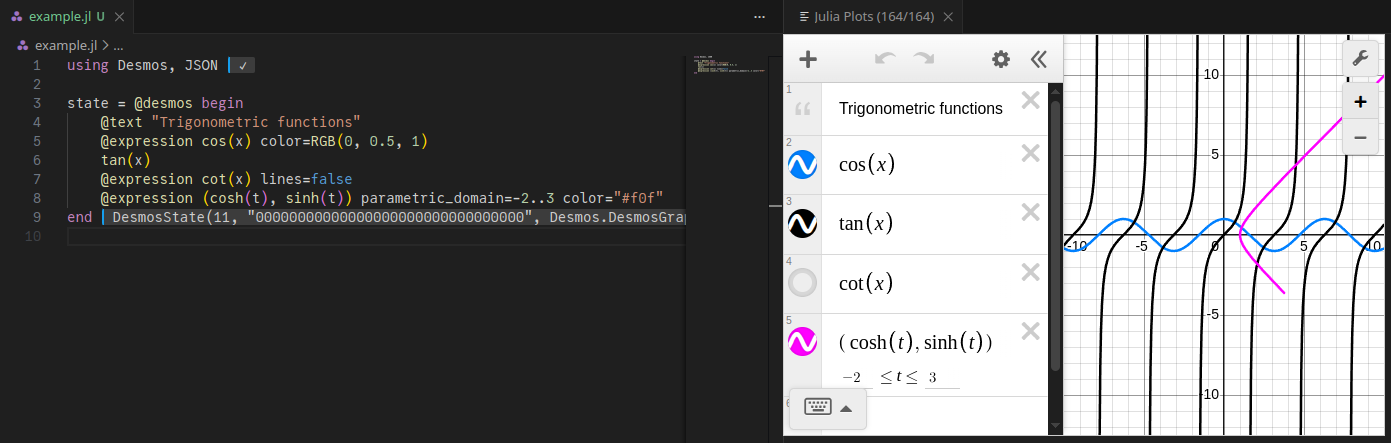
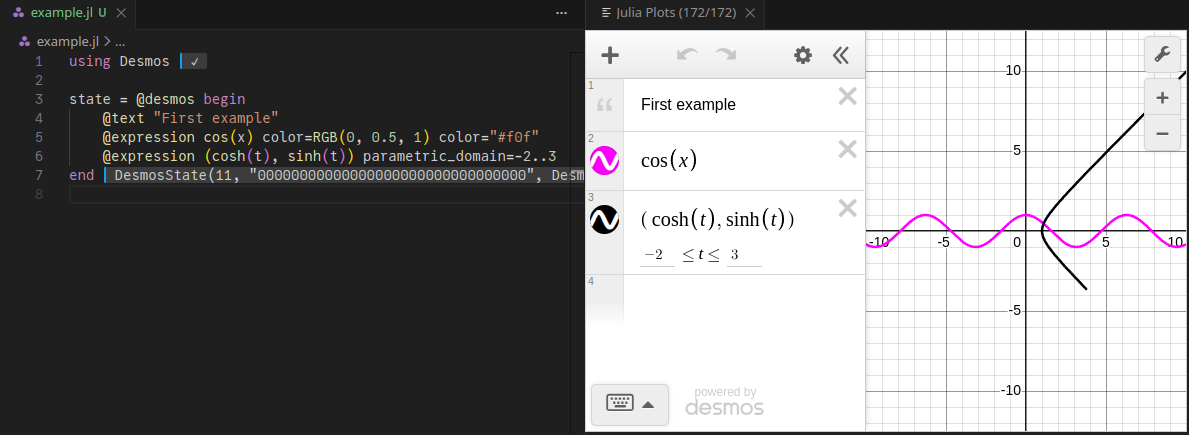
build based on f850f90

diff --git a/previews/PR42/index.html b/previews/PR42/index.html
@@ -1,10 +1,8 @@
 <!DOCTYPE html>
-<html lang="en"><head><meta charset="UTF-8"/><meta name="viewport" content="width=device-width, initial-scale=1.0"/><title>Home · Desmos.jl</title><meta name="title" content="Home · Desmos.jl"/><meta property="og:title" content="Home · Desmos.jl"/><meta property="twitter:title" content="Home · Desmos.jl"/><meta name="description" content="Documentation for Desmos.jl."/><meta property="og:description" content="Documentation for Desmos.jl."/><meta property="twitter:description" content="Documentation for Desmos.jl."/><meta property="og:url" content="https://hyrodium.github.io/Desmos.jl/stable/"/><meta property="twitter:url" content="https://hyrodium.github.io/Desmos.jl/stable/"/><link rel="canonical" href="https://hyrodium.github.io/Desmos.jl/stable/"/><script data-outdated-warner src="assets/warner.js"></script><link href="https://cdnjs.cloudflare.com/ajax/libs/lato-font/3.0.0/css/lato-font.min.css" rel="stylesheet" type="text/css"/><link href="https://cdnjs.cloudflare.com/ajax/libs/juliamono/0.050/juliamono.min.css" rel="stylesheet" type="text/css"/><link href="https://cdnjs.cloudflare.com/ajax/libs/font-awesome/6.4.2/css/fontawesome.min.css" rel="stylesheet" type="text/css"/><link href="https://cdnjs.cloudflare.com/ajax/libs/font-awesome/6.4.2/css/solid.min.css" rel="stylesheet" type="text/css"/><link href="https://cdnjs.cloudflare.com/ajax/libs/font-awesome/6.4.2/css/brands.min.css" rel="stylesheet" type="text/css"/><link href="https://cdnjs.cloudflare.com/ajax/libs/KaTeX/0.16.8/katex.min.css" rel="stylesheet" type="text/css"/><script>documenterBaseURL="."</script><script src="https://cdnjs.cloudflare.com/ajax/libs/require.js/2.3.6/require.min.js" data-main="assets/documenter.js"></script><script src="search_index.js"></script><script src="siteinfo.js"></script><script src="../versions.js"></script><link class="docs-theme-link" rel="stylesheet" type="text/css" href="assets/themes/catppuccin-mocha.css" data-theme-name="catppuccin-mocha"/><link class="docs-theme-link" rel="stylesheet" type="text/css" href="assets/themes/catppuccin-macchiato.css" data-theme-name="catppuccin-macchiato"/><link class="docs-theme-link" rel="stylesheet" type="text/css" href="assets/themes/catppuccin-frappe.css" data-theme-name="catppuccin-frappe"/><link class="docs-theme-link" rel="stylesheet" type="text/css" href="assets/themes/catppuccin-latte.css" data-theme-name="catppuccin-latte"/><link class="docs-theme-link" rel="stylesheet" type="text/css" href="assets/themes/documenter-dark.css" data-theme-name="documenter-dark" data-theme-primary-dark/><link class="docs-theme-link" rel="stylesheet" type="text/css" href="assets/themes/documenter-light.css" data-theme-name="documenter-light" data-theme-primary/><script src="assets/themeswap.js"></script><link href="assets/favicon.ico" rel="icon" type="image/x-icon"/><link href="assets/custom.css" rel="stylesheet" type="text/css"/></head><body><div id="documenter"><nav class="docs-sidebar"><a class="docs-logo" href><img src="assets/logo.svg" alt="Desmos.jl logo"/></a><div class="docs-package-name"><span class="docs-autofit"><a href>Desmos.jl</a></span></div><button class="docs-search-query input is-rounded is-small is-clickable my-2 mx-auto py-1 px-2" id="documenter-search-query">Search docs (Ctrl + /)</button><ul class="docs-menu"><li class="is-active"><a class="tocitem" href>Home</a><ul class="internal"><li><a class="tocitem" href="#First-example"><span>First example</span></a></li><li><a class="tocitem" href="#Desmos-Text-I/O"><span>Desmos Text I/O</span></a></li></ul></li><li><a class="tocitem" href="api/">API</a></li><li><a class="tocitem" href="examples/">Examples</a></li></ul><div class="docs-version-selector field has-addons"><div class="control"><span class="docs-label button is-static is-size-7">Version</span></div><div class="docs-selector control is-expanded"><div class="select is-fullwidth is-size-7"><select id="documenter-version-selector"></select></div></div></div></nav><div class="docs-main"><header class="docs-navbar"><a class="docs-sidebar-button docs-navbar-link fa-solid fa-bars is-hidden-desktop" id="documenter-sidebar-button" href="#"></a><nav class="breadcrumb"><ul class="is-hidden-mobile"><li class="is-active"><a href>Home</a></li></ul><ul class="is-hidden-tablet"><li class="is-active"><a href>Home</a></li></ul></nav><div class="docs-right"><a class="docs-navbar-link" href="https://github.com/hyrodium/Desmos.jl/blob/main/docs/src/index.md#L" title="Edit source on GitHub"><span class="docs-icon fa-solid"></span></a><a class="docs-settings-button docs-navbar-link fa-solid fa-gear" id="documenter-settings-button" href="#" title="Settings"></a><a class="docs-article-toggle-button fa-solid fa-chevron-up" id="documenter-article-toggle-button" href="javascript:;" title="Collapse all docstrings"></a></div></header><article class="content" id="documenter-page"><h1 id="Desmos.jl"><a class="docs-heading-anchor" href="#Desmos.jl">Desmos.jl</a><a id="Desmos.jl-1"></a><a class="docs-heading-anchor-permalink" href="#Desmos.jl" title="Permalink"></a></h1><p>Generate Desmos script (JSON) with Julia language.</p><p><a href="https://hyrodium.github.io/Desmos.jl/stable"><img src="https://img.shields.io/badge/docs-stable-blue.svg" alt="Stable"/></a> <a href="https://hyrodium.github.io/Desmos.jl/dev"><img src="https://img.shields.io/badge/docs-dev-blue.svg" alt="Dev"/></a> <a href="https://github.com/hyrodium/Desmos.jl/actions?query=workflow%3ACI+branch%3Amain"><img src="https://github.com/hyrodium/Desmos.jl/workflows/CI/badge.svg" alt="Build Status"/></a> <a href="https://codecov.io/gh/hyrodium/Desmos.jl"><img src="https://codecov.io/gh/hyrodium/Desmos.jl/branch/main/graph/badge.svg?token=dJBiR91dCD" alt="codecov"/></a> <a href="https://github.com/JuliaTesting/Aqua.jl"><img src="https://raw.githubusercontent.com/JuliaTesting/Aqua.jl/master/badge.svg" alt="Aqua QA"/></a></p><h2 id="First-example"><a class="docs-heading-anchor" href="#First-example">First example</a><a id="First-example-1"></a><a class="docs-heading-anchor-permalink" href="#First-example" title="Permalink"></a></h2><pre><code class="language-julia hljs">using Desmos, JSON
+<html lang="en"><head><meta charset="UTF-8"/><meta name="viewport" content="width=device-width, initial-scale=1.0"/><title>Home · Desmos.jl</title><meta name="title" content="Home · Desmos.jl"/><meta property="og:title" content="Home · Desmos.jl"/><meta property="twitter:title" content="Home · Desmos.jl"/><meta name="description" content="Documentation for Desmos.jl."/><meta property="og:description" content="Documentation for Desmos.jl."/><meta property="twitter:description" content="Documentation for Desmos.jl."/><meta property="og:url" content="https://hyrodium.github.io/Desmos.jl/stable/"/><meta property="twitter:url" content="https://hyrodium.github.io/Desmos.jl/stable/"/><link rel="canonical" href="https://hyrodium.github.io/Desmos.jl/stable/"/><script data-outdated-warner src="assets/warner.js"></script><link href="https://cdnjs.cloudflare.com/ajax/libs/lato-font/3.0.0/css/lato-font.min.css" rel="stylesheet" type="text/css"/><link href="https://cdnjs.cloudflare.com/ajax/libs/juliamono/0.050/juliamono.min.css" rel="stylesheet" type="text/css"/><link href="https://cdnjs.cloudflare.com/ajax/libs/font-awesome/6.4.2/css/fontawesome.min.css" rel="stylesheet" type="text/css"/><link href="https://cdnjs.cloudflare.com/ajax/libs/font-awesome/6.4.2/css/solid.min.css" rel="stylesheet" type="text/css"/><link href="https://cdnjs.cloudflare.com/ajax/libs/font-awesome/6.4.2/css/brands.min.css" rel="stylesheet" type="text/css"/><link href="https://cdnjs.cloudflare.com/ajax/libs/KaTeX/0.16.8/katex.min.css" rel="stylesheet" type="text/css"/><script>documenterBaseURL="."</script><script src="https://cdnjs.cloudflare.com/ajax/libs/require.js/2.3.6/require.min.js" data-main="assets/documenter.js"></script><script src="search_index.js"></script><script src="siteinfo.js"></script><script src="../versions.js"></script><link class="docs-theme-link" rel="stylesheet" type="text/css" href="assets/themes/catppuccin-mocha.css" data-theme-name="catppuccin-mocha"/><link class="docs-theme-link" rel="stylesheet" type="text/css" href="assets/themes/catppuccin-macchiato.css" data-theme-name="catppuccin-macchiato"/><link class="docs-theme-link" rel="stylesheet" type="text/css" href="assets/themes/catppuccin-frappe.css" data-theme-name="catppuccin-frappe"/><link class="docs-theme-link" rel="stylesheet" type="text/css" href="assets/themes/catppuccin-latte.css" data-theme-name="catppuccin-latte"/><link class="docs-theme-link" rel="stylesheet" type="text/css" href="assets/themes/documenter-dark.css" data-theme-name="documenter-dark" data-theme-primary-dark/><link class="docs-theme-link" rel="stylesheet" type="text/css" href="assets/themes/documenter-light.css" data-theme-name="documenter-light" data-theme-primary/><script src="assets/themeswap.js"></script><link href="assets/favicon.ico" rel="icon" type="image/x-icon"/><link href="assets/custom.css" rel="stylesheet" type="text/css"/></head><body><div id="documenter"><nav class="docs-sidebar"><a class="docs-logo" href><img src="assets/logo.svg" alt="Desmos.jl logo"/></a><div class="docs-package-name"><span class="docs-autofit"><a href>Desmos.jl</a></span></div><button class="docs-search-query input is-rounded is-small is-clickable my-2 mx-auto py-1 px-2" id="documenter-search-query">Search docs (Ctrl + /)</button><ul class="docs-menu"><li class="is-active"><a class="tocitem" href>Home</a><ul class="internal"><li><a class="tocitem" href="#First-example"><span>First example</span></a></li><li><a class="tocitem" href="#Desmos-Text-I/O"><span>Desmos Text I/O</span></a></li></ul></li><li><a class="tocitem" href="api/">API</a></li><li><a class="tocitem" href="examples/">Examples</a></li></ul><div class="docs-version-selector field has-addons"><div class="control"><span class="docs-label button is-static is-size-7">Version</span></div><div class="docs-selector control is-expanded"><div class="select is-fullwidth is-size-7"><select id="documenter-version-selector"></select></div></div></div></nav><div class="docs-main"><header class="docs-navbar"><a class="docs-sidebar-button docs-navbar-link fa-solid fa-bars is-hidden-desktop" id="documenter-sidebar-button" href="#"></a><nav class="breadcrumb"><ul class="is-hidden-mobile"><li class="is-active"><a href>Home</a></li></ul><ul class="is-hidden-tablet"><li class="is-active"><a href>Home</a></li></ul></nav><div class="docs-right"><a class="docs-navbar-link" href="https://github.com/hyrodium/Desmos.jl/blob/main/docs/src/index.md#L" title="Edit source on GitHub"><span class="docs-icon fa-solid"></span></a><a class="docs-settings-button docs-navbar-link fa-solid fa-gear" id="documenter-settings-button" href="#" title="Settings"></a><a class="docs-article-toggle-button fa-solid fa-chevron-up" id="documenter-article-toggle-button" href="javascript:;" title="Collapse all docstrings"></a></div></header><article class="content" id="documenter-page"><h1 id="Desmos.jl"><a class="docs-heading-anchor" href="#Desmos.jl">Desmos.jl</a><a id="Desmos.jl-1"></a><a class="docs-heading-anchor-permalink" href="#Desmos.jl" title="Permalink"></a></h1><p>Generate Desmos script (JSON) with Julia language.</p><p><a href="https://hyrodium.github.io/Desmos.jl/stable"><img src="https://img.shields.io/badge/docs-stable-blue.svg" alt="Stable"/></a> <a href="https://hyrodium.github.io/Desmos.jl/dev"><img src="https://img.shields.io/badge/docs-dev-blue.svg" alt="Dev"/></a> <a href="https://github.com/hyrodium/Desmos.jl/actions?query=workflow%3ACI+branch%3Amain"><img src="https://github.com/hyrodium/Desmos.jl/workflows/CI/badge.svg" alt="Build Status"/></a> <a href="https://codecov.io/gh/hyrodium/Desmos.jl"><img src="https://codecov.io/gh/hyrodium/Desmos.jl/branch/main/graph/badge.svg?token=dJBiR91dCD" alt="codecov"/></a> <a href="https://github.com/JuliaTesting/Aqua.jl"><img src="https://raw.githubusercontent.com/JuliaTesting/Aqua.jl/master/badge.svg" alt="Aqua QA"/></a></p><h2 id="First-example"><a class="docs-heading-anchor" href="#First-example">First example</a><a id="First-example-1"></a><a class="docs-heading-anchor-permalink" href="#First-example" title="Permalink"></a></h2><pre><code class="language-julia hljs">using Desmos
 
 state = @desmos begin
-    @text &quot;Trigonometric functions&quot;
-    @expression cos(x) color=RGB(0, 0.5, 1)
-    tan(x)
-    @expression cot(x) lines=false
-    @expression (cosh(t), sinh(t)) parametric_domain=-2..3 color=&quot;#f0f&quot;
-end</code></pre><p><img src="vscode.png" alt/></p><h2 id="Desmos-Text-I/O"><a class="docs-heading-anchor" href="#Desmos-Text-I/O">Desmos Text I/O</a><a id="Desmos-Text-I/O-1"></a><a class="docs-heading-anchor-permalink" href="#Desmos-Text-I/O" title="Permalink"></a></h2><p>You can also use <a href="https://github.com/hyrodium/DesmosTextIO">Desmos Text I/O extension</a> to import/export the desmos-graph.</p><p><a href="https://github.com/hyrodium/DesmosTextIO"><img src="https://raw.githubusercontent.com/hyrodium/desmos-text-io/main/logo.svg" alt/></a></p><ul><li><a href="https://chrome.google.com/webstore/detail/desmos-text-io/ndjdcebpigpfidnilppdpcdkibidfmaa">Chrome Web Store</a></li><li><a href="https://addons.mozilla.org/en-US/firefox/addon/desmos-text-i-o/">Firefox ADD-ONS</a></li></ul></article><nav class="docs-footer"><a class="docs-footer-nextpage" href="api/">API »</a><div class="flexbox-break"></div><p class="footer-message">Powered by <a href="https://github.com/JuliaDocs/Documenter.jl">Documenter.jl</a> and the <a href="https://julialang.org/">Julia Programming Language</a>.</p></nav></div><div class="modal" id="documenter-settings"><div class="modal-background"></div><div class="modal-card"><header class="modal-card-head"><p class="modal-card-title">Settings</p><button class="delete"></button></header><section class="modal-card-body"><p><label class="label">Theme</label><div class="select"><select id="documenter-themepicker"><option value="auto">Automatic (OS)</option><option value="documenter-light">documenter-light</option><option value="documenter-dark">documenter-dark</option><option value="catppuccin-latte">catppuccin-latte</option><option value="catppuccin-frappe">catppuccin-frappe</option><option value="catppuccin-macchiato">catppuccin-macchiato</option><option value="catppuccin-mocha">catppuccin-mocha</option></select></div></p><hr/><p>This document was generated with <a href="https://github.com/JuliaDocs/Documenter.jl">Documenter.jl</a> version 1.16.1 on <span class="colophon-date" title="Wednesday 10 December 2025 07:45">Wednesday 10 December 2025</span>. Using Julia version 1.12.2.</p></section><footer class="modal-card-foot"></footer></div></div></div></body></html>
+    @text &quot;First example&quot;
+    @expression cos(x) color=RGB(0, 0.5, 1) color=&quot;#f0f&quot;
+    @expression (cosh(t), sinh(t)) parametric_domain=-2..3
+end</code></pre><p><img src="vscode.png" alt/></p><h2 id="Desmos-Text-I/O"><a class="docs-heading-anchor" href="#Desmos-Text-I/O">Desmos Text I/O</a><a id="Desmos-Text-I/O-1"></a><a class="docs-heading-anchor-permalink" href="#Desmos-Text-I/O" title="Permalink"></a></h2><p>You can also use <a href="https://github.com/hyrodium/DesmosTextIO">Desmos Text I/O extension</a> to import/export the desmos-graph.</p><p><a href="https://github.com/hyrodium/DesmosTextIO"><img src="https://raw.githubusercontent.com/hyrodium/desmos-text-io/main/logo.svg" alt/></a></p><ul><li><a href="https://chrome.google.com/webstore/detail/desmos-text-io/ndjdcebpigpfidnilppdpcdkibidfmaa">Chrome Web Store</a></li><li><a href="https://addons.mozilla.org/en-US/firefox/addon/desmos-text-i-o/">Firefox ADD-ONS</a></li></ul></article><nav class="docs-footer"><a class="docs-footer-nextpage" href="api/">API »</a><div class="flexbox-break"></div><p class="footer-message">Powered by <a href="https://github.com/JuliaDocs/Documenter.jl">Documenter.jl</a> and the <a href="https://julialang.org/">Julia Programming Language</a>.</p></nav></div><div class="modal" id="documenter-settings"><div class="modal-background"></div><div class="modal-card"><header class="modal-card-head"><p class="modal-card-title">Settings</p><button class="delete"></button></header><section class="modal-card-body"><p><label class="label">Theme</label><div class="select"><select id="documenter-themepicker"><option value="auto">Automatic (OS)</option><option value="documenter-light">documenter-light</option><option value="documenter-dark">documenter-dark</option><option value="catppuccin-latte">catppuccin-latte</option><option value="catppuccin-frappe">catppuccin-frappe</option><option value="catppuccin-macchiato">catppuccin-macchiato</option><option value="catppuccin-mocha">catppuccin-mocha</option></select></div></p><hr/><p>This document was generated with <a href="https://github.com/JuliaDocs/Documenter.jl">Documenter.jl</a> version 1.16.1 on <span class="colophon-date" title="Wednesday 10 December 2025 08:19">Wednesday 10 December 2025</span>. Using Julia version 1.12.2.</p></section><footer class="modal-card-foot"></footer></div></div></div></body></html>

diff --git a/previews/PR42/api/index.html b/previews/PR42/api/index.html
@@ -1,2 +1,2 @@
 <!DOCTYPE html>
-<html lang="en"><head><meta charset="UTF-8"/><meta name="viewport" content="width=device-width, initial-scale=1.0"/><title>API · Desmos.jl</title><meta name="title" content="API · Desmos.jl"/><meta property="og:title" content="API · Desmos.jl"/><meta property="twitter:title" content="API · Desmos.jl"/><meta name="description" content="Documentation for Desmos.jl."/><meta property="og:description" content="Documentation for Desmos.jl."/><meta property="twitter:description" content="Documentation for Desmos.jl."/><meta property="og:url" content="https://hyrodium.github.io/Desmos.jl/stable/api/"/><meta property="twitter:url" content="https://hyrodium.github.io/Desmos.jl/stable/api/"/><link rel="canonical" href="https://hyrodium.github.io/Desmos.jl/stable/api/"/><script data-outdated-warner src="../assets/warner.js"></script><link href="https://cdnjs.cloudflare.com/ajax/libs/lato-font/3.0.0/css/lato-font.min.css" rel="stylesheet" type="text/css"/><link href="https://cdnjs.cloudflare.com/ajax/libs/juliamono/0.050/juliamono.min.css" rel="stylesheet" type="text/css"/><link href="https://cdnjs.cloudflare.com/ajax/libs/font-awesome/6.4.2/css/fontawesome.min.css" rel="stylesheet" type="text/css"/><link href="https://cdnjs.cloudflare.com/ajax/libs/font-awesome/6.4.2/css/solid.min.css" rel="stylesheet" type="text/css"/><link href="https://cdnjs.cloudflare.com/ajax/libs/font-awesome/6.4.2/css/brands.min.css" rel="stylesheet" type="text/css"/><link href="https://cdnjs.cloudflare.com/ajax/libs/KaTeX/0.16.8/katex.min.css" rel="stylesheet" type="text/css"/><script>documenterBaseURL=".."</script><script src="https://cdnjs.cloudflare.com/ajax/libs/require.js/2.3.6/require.min.js" data-main="../assets/documenter.js"></script><script src="../search_index.js"></script><script src="../siteinfo.js"></script><script src="../../versions.js"></script><link class="docs-theme-link" rel="stylesheet" type="text/css" href="../assets/themes/catppuccin-mocha.css" data-theme-name="catppuccin-mocha"/><link class="docs-theme-link" rel="stylesheet" type="text/css" href="../assets/themes/catppuccin-macchiato.css" data-theme-name="catppuccin-macchiato"/><link class="docs-theme-link" rel="stylesheet" type="text/css" href="../assets/themes/catppuccin-frappe.css" data-theme-name="catppuccin-frappe"/><link class="docs-theme-link" rel="stylesheet" type="text/css" href="../assets/themes/catppuccin-latte.css" data-theme-name="catppuccin-latte"/><link class="docs-theme-link" rel="stylesheet" type="text/css" href="../assets/themes/documenter-dark.css" data-theme-name="documenter-dark" data-theme-primary-dark/><link class="docs-theme-link" rel="stylesheet" type="text/css" href="../assets/themes/documenter-light.css" data-theme-name="documenter-light" data-theme-primary/><script src="../assets/themeswap.js"></script><link href="../assets/favicon.ico" rel="icon" type="image/x-icon"/><link href="../assets/custom.css" rel="stylesheet" type="text/css"/></head><body><div id="documenter"><nav class="docs-sidebar"><a class="docs-logo" href="../"><img src="../assets/logo.svg" alt="Desmos.jl logo"/></a><div class="docs-package-name"><span class="docs-autofit"><a href="../">Desmos.jl</a></span></div><button class="docs-search-query input is-rounded is-small is-clickable my-2 mx-auto py-1 px-2" id="documenter-search-query">Search docs (Ctrl + /)</button><ul class="docs-menu"><li><a class="tocitem" href="../">Home</a></li><li class="is-active"><a class="tocitem" href>API</a></li><li><a class="tocitem" href="../examples/">Examples</a></li></ul><div class="docs-version-selector field has-addons"><div class="control"><span class="docs-label button is-static is-size-7">Version</span></div><div class="docs-selector control is-expanded"><div class="select is-fullwidth is-size-7"><select id="documenter-version-selector"></select></div></div></div></nav><div class="docs-main"><header class="docs-navbar"><a class="docs-sidebar-button docs-navbar-link fa-solid fa-bars is-hidden-desktop" id="documenter-sidebar-button" href="#"></a><nav class="breadcrumb"><ul class="is-hidden-mobile"><li class="is-active"><a href>API</a></li></ul><ul class="is-hidden-tablet"><li class="is-active"><a href>API</a></li></ul></nav><div class="docs-right"><a class="docs-navbar-link" href="https://github.com/hyrodium/Desmos.jl/blob/main/docs/src/api.md#L" title="Edit source on GitHub"><span class="docs-icon fa-solid"></span></a><a class="docs-settings-button docs-navbar-link fa-solid fa-gear" id="documenter-settings-button" href="#" title="Settings"></a><a class="docs-article-toggle-button fa-solid fa-chevron-up" id="documenter-article-toggle-button" href="javascript:;" title="Collapse all docstrings"></a></div></header><article class="content" id="documenter-page"><h1 id="API"><a class="docs-heading-anchor" href="#API">API</a><a id="API-1"></a><a class="docs-heading-anchor-permalink" href="#API" title="Permalink"></a></h1></article><nav class="docs-footer"><a class="docs-footer-prevpage" href="../">« Home</a><a class="docs-footer-nextpage" href="../examples/">Examples »</a><div class="flexbox-break"></div><p class="footer-message">Powered by <a href="https://github.com/JuliaDocs/Documenter.jl">Documenter.jl</a> and the <a href="https://julialang.org/">Julia Programming Language</a>.</p></nav></div><div class="modal" id="documenter-settings"><div class="modal-background"></div><div class="modal-card"><header class="modal-card-head"><p class="modal-card-title">Settings</p><button class="delete"></button></header><section class="modal-card-body"><p><label class="label">Theme</label><div class="select"><select id="documenter-themepicker"><option value="auto">Automatic (OS)</option><option value="documenter-light">documenter-light</option><option value="documenter-dark">documenter-dark</option><option value="catppuccin-latte">catppuccin-latte</option><option value="catppuccin-frappe">catppuccin-frappe</option><option value="catppuccin-macchiato">catppuccin-macchiato</option><option value="catppuccin-mocha">catppuccin-mocha</option></select></div></p><hr/><p>This document was generated with <a href="https://github.com/JuliaDocs/Documenter.jl">Documenter.jl</a> version 1.16.1 on <span class="colophon-date" title="Wednesday 10 December 2025 07:45">Wednesday 10 December 2025</span>. Using Julia version 1.12.2.</p></section><footer class="modal-card-foot"></footer></div></div></div></body></html>
+<html lang="en"><head><meta charset="UTF-8"/><meta name="viewport" content="width=device-width, initial-scale=1.0"/><title>API · Desmos.jl</title><meta name="title" content="API · Desmos.jl"/><meta property="og:title" content="API · Desmos.jl"/><meta property="twitter:title" content="API · Desmos.jl"/><meta name="description" content="Documentation for Desmos.jl."/><meta property="og:description" content="Documentation for Desmos.jl."/><meta property="twitter:description" content="Documentation for Desmos.jl."/><meta property="og:url" content="https://hyrodium.github.io/Desmos.jl/stable/api/"/><meta property="twitter:url" content="https://hyrodium.github.io/Desmos.jl/stable/api/"/><link rel="canonical" href="https://hyrodium.github.io/Desmos.jl/stable/api/"/><script data-outdated-warner src="../assets/warner.js"></script><link href="https://cdnjs.cloudflare.com/ajax/libs/lato-font/3.0.0/css/lato-font.min.css" rel="stylesheet" type="text/css"/><link href="https://cdnjs.cloudflare.com/ajax/libs/juliamono/0.050/juliamono.min.css" rel="stylesheet" type="text/css"/><link href="https://cdnjs.cloudflare.com/ajax/libs/font-awesome/6.4.2/css/fontawesome.min.css" rel="stylesheet" type="text/css"/><link href="https://cdnjs.cloudflare.com/ajax/libs/font-awesome/6.4.2/css/solid.min.css" rel="stylesheet" type="text/css"/><link href="https://cdnjs.cloudflare.com/ajax/libs/font-awesome/6.4.2/css/brands.min.css" rel="stylesheet" type="text/css"/><link href="https://cdnjs.cloudflare.com/ajax/libs/KaTeX/0.16.8/katex.min.css" rel="stylesheet" type="text/css"/><script>documenterBaseURL=".."</script><script src="https://cdnjs.cloudflare.com/ajax/libs/require.js/2.3.6/require.min.js" data-main="../assets/documenter.js"></script><script src="../search_index.js"></script><script src="../siteinfo.js"></script><script src="../../versions.js"></script><link class="docs-theme-link" rel="stylesheet" type="text/css" href="../assets/themes/catppuccin-mocha.css" data-theme-name="catppuccin-mocha"/><link class="docs-theme-link" rel="stylesheet" type="text/css" href="../assets/themes/catppuccin-macchiato.css" data-theme-name="catppuccin-macchiato"/><link class="docs-theme-link" rel="stylesheet" type="text/css" href="../assets/themes/catppuccin-frappe.css" data-theme-name="catppuccin-frappe"/><link class="docs-theme-link" rel="stylesheet" type="text/css" href="../assets/themes/catppuccin-latte.css" data-theme-name="catppuccin-latte"/><link class="docs-theme-link" rel="stylesheet" type="text/css" href="../assets/themes/documenter-dark.css" data-theme-name="documenter-dark" data-theme-primary-dark/><link class="docs-theme-link" rel="stylesheet" type="text/css" href="../assets/themes/documenter-light.css" data-theme-name="documenter-light" data-theme-primary/><script src="../assets/themeswap.js"></script><link href="../assets/favicon.ico" rel="icon" type="image/x-icon"/><link href="../assets/custom.css" rel="stylesheet" type="text/css"/></head><body><div id="documenter"><nav class="docs-sidebar"><a class="docs-logo" href="../"><img src="../assets/logo.svg" alt="Desmos.jl logo"/></a><div class="docs-package-name"><span class="docs-autofit"><a href="../">Desmos.jl</a></span></div><button class="docs-search-query input is-rounded is-small is-clickable my-2 mx-auto py-1 px-2" id="documenter-search-query">Search docs (Ctrl + /)</button><ul class="docs-menu"><li><a class="tocitem" href="../">Home</a></li><li class="is-active"><a class="tocitem" href>API</a></li><li><a class="tocitem" href="../examples/">Examples</a></li></ul><div class="docs-version-selector field has-addons"><div class="control"><span class="docs-label button is-static is-size-7">Version</span></div><div class="docs-selector control is-expanded"><div class="select is-fullwidth is-size-7"><select id="documenter-version-selector"></select></div></div></div></nav><div class="docs-main"><header class="docs-navbar"><a class="docs-sidebar-button docs-navbar-link fa-solid fa-bars is-hidden-desktop" id="documenter-sidebar-button" href="#"></a><nav class="breadcrumb"><ul class="is-hidden-mobile"><li class="is-active"><a href>API</a></li></ul><ul class="is-hidden-tablet"><li class="is-active"><a href>API</a></li></ul></nav><div class="docs-right"><a class="docs-navbar-link" href="https://github.com/hyrodium/Desmos.jl/blob/main/docs/src/api.md#L" title="Edit source on GitHub"><span class="docs-icon fa-solid"></span></a><a class="docs-settings-button docs-navbar-link fa-solid fa-gear" id="documenter-settings-button" href="#" title="Settings"></a><a class="docs-article-toggle-button fa-solid fa-chevron-up" id="documenter-article-toggle-button" href="javascript:;" title="Collapse all docstrings"></a></div></header><article class="content" id="documenter-page"><h1 id="API"><a class="docs-heading-anchor" href="#API">API</a><a id="API-1"></a><a class="docs-heading-anchor-permalink" href="#API" title="Permalink"></a></h1></article><nav class="docs-footer"><a class="docs-footer-prevpage" href="../">« Home</a><a class="docs-footer-nextpage" href="../examples/">Examples »</a><div class="flexbox-break"></div><p class="footer-message">Powered by <a href="https://github.com/JuliaDocs/Documenter.jl">Documenter.jl</a> and the <a href="https://julialang.org/">Julia Programming Language</a>.</p></nav></div><div class="modal" id="documenter-settings"><div class="modal-background"></div><div class="modal-card"><header class="modal-card-head"><p class="modal-card-title">Settings</p><button class="delete"></button></header><section class="modal-card-body"><p><label class="label">Theme</label><div class="select"><select id="documenter-themepicker"><option value="auto">Automatic (OS)</option><option value="documenter-light">documenter-light</option><option value="documenter-dark">documenter-dark</option><option value="catppuccin-latte">catppuccin-latte</option><option value="catppuccin-frappe">catppuccin-frappe</option><option value="catppuccin-macchiato">catppuccin-macchiato</option><option value="catppuccin-mocha">catppuccin-mocha</option></select></div></p><hr/><p>This document was generated with <a href="https://github.com/JuliaDocs/Documenter.jl">Documenter.jl</a> version 1.16.1 on <span class="colophon-date" title="Wednesday 10 December 2025 08:19">Wednesday 10 December 2025</span>. Using Julia version 1.12.2.</p></section><footer class="modal-card-foot"></footer></div></div></div></body></html>

diff --git a/previews/PR42/examples/index.html b/previews/PR42/examples/index.html
@@ -7,11 +7,11 @@ state = @desmos begin
     tan(x)
     @expression cot(x) hidden = true
     @expression (cosh(t), sinh(t)) parametric_domain = -2..3
-end</code></pre>    <div class="desmos-container" id="desmos-3247902098615747560" style="width:600px;height:400px;"></div>
+end</code></pre>    <div class="desmos-container" id="desmos-6249348683027312305" style="width:600px;height:400px;"></div>
     <script src="https://www.desmos.com/api/v1.10/calculator.js?apiKey=dcb31709b452b1cf9dc26972add0fda6"></script>
     <script>
         (function() {
-            var elt = document.getElementById("desmos-3247902098615747560");
+            var elt = document.getElementById("desmos-6249348683027312305");
             var calculator = Desmos.GraphingCalculator(elt);
             calculator.setState({"version":11,"randomSeed":"00000000000000000000000000000000","graph":{},"expressions":{"list":[{"type":"text","id":"1","text":"Trigonometric functions"},{"type":"expression","id":"2","color":"#FF0000","latex":"\\cos\\left( x \\right)"},{"type":"expression","id":"3","color":"#0000FF","latex":"\\sin\\left( x \\right)"},{"type":"expression","id":"4","color":"#000000","latex":"\\tan\\left( x \\right)"},{"type":"expression","id":"5","color":"#000000","hidden":true,"latex":"\\cot\\left( x \\right)"},{"type":"expression","id":"6","color":"#000000","latex":"(\\cosh\\left( t \\right), \\sinh\\left( t \\right))","parametricDomain":{"min":"-2","max":"3"}}]},"includeFunctionParametersInRandomSeed":true,"doNotMigrateMovablePointStyle":true});
         })();
@@ -25,11 +25,11 @@ state = @desmos begin
     @expression d = 7
     $(2+2)
     sin($(2b)*a-cx)
-end</code></pre>    <div class="desmos-container" id="desmos-1585677594912752788" style="width:600px;height:400px;"></div>
+end</code></pre>    <div class="desmos-container" id="desmos-8022834352327142941" style="width:600px;height:400px;"></div>
     <script src="https://www.desmos.com/api/v1.10/calculator.js?apiKey=dcb31709b452b1cf9dc26972add0fda6"></script>
     <script>
         (function() {
-            var elt = document.getElementById("desmos-1585677594912752788");
+            var elt = document.getElementById("desmos-8022834352327142941");
             var calculator = Desmos.GraphingCalculator(elt);
             calculator.setState({"version":11,"randomSeed":"00000000000000000000000000000000","graph":{},"expressions":{"list":[{"type":"expression","id":"1","color":"#000000","latex":"a = 4"},{"type":"expression","id":"2","color":"#000000","latex":"b = 5","slider":{"hardMin":true,"hardMax":true,"min":"2","max":"6"}},{"type":"expression","id":"3","color":"#000000","latex":"c = 5","slider":{"hardMin":true,"hardMax":true,"min":"1","max":"8","step":"1"}},{"type":"expression","id":"4","color":"#000000","latex":"d = 7"},{"type":"expression","id":"5","color":"#000000","latex":"4"},{"type":"expression","id":"6","color":"#000000","latex":"\\sin\\left( 6 \\cdot a - cx \\right)"}]},"includeFunctionParametersInRandomSeed":true,"doNotMigrateMovablePointStyle":true});
         })();
@@ -58,13 +58,13 @@ state = @desmos begin
     (a₀,b₀)
     @expression (a(I),b(I)) lines = true
     @image image_url = $image_url width = 20 height = 20 name = &quot;regions&quot; hidden = true
-end</code></pre>    <div class="desmos-container" id="desmos-14313846905369266842" style="width:600px;height:400px;"></div>
+end</code></pre>    <div class="desmos-container" id="desmos-13275656389890992212" style="width:600px;height:400px;"></div>
     <script src="https://www.desmos.com/api/v1.10/calculator.js?apiKey=dcb31709b452b1cf9dc26972add0fda6"></script>
     <script>
         (function() {
-            var elt = document.getElementById("desmos-14313846905369266842");
+            var elt = document.getElementById("desmos-13275656389890992212");
             var calculator = Desmos.GraphingCalculator(elt);
             calculator.setState({"version":11,"randomSeed":"00000000000000000000000000000000","graph":{},"expressions":{"list":[{"type":"expression","id":"1","color":"#000000","latex":"f\\left( x, y \\right) = x^{2} + y^{2} - 3.9 - \\frac{x}{2}"},{"type":"expression","id":"2","color":"#000000","latex":"g\\left( x, y \\right) = x^{2} - y^{2} - 2"},{"type":"expression","id":"3","color":"#4C4C4C","latex":"0 = f\\left( x, y \\right)"},{"type":"expression","id":"4","color":"#999999","latex":"0 = g\\left( x, y \\right)"},{"type":"expression","id":"5","color":"#000000","latex":"f_{x}\\left( x, y \\right) = {\\frac{d}{dx}}\\left( f\\left( x, y \\right) \\right)"},{"type":"expression","id":"6","color":"#000000","latex":"f_{y}\\left( x, y \\right) = {\\frac{d}{dy}}\\left( f\\left( x, y \\right) \\right)"},{"type":"expression","id":"7","color":"#000000","latex":"g_{x}\\left( x, y \\right) = {\\frac{d}{dx}}\\left( g\\left( x, y \\right) \\right)"},{"type":"expression","id":"8","color":"#000000","latex":"g_{y}\\left( x, y \\right) = {\\frac{d}{dy}}\\left( g\\left( x, y \\right) \\right)"},{"type":"expression","id":"9","color":"#000000","latex":"d\\left( x, y \\right) = f_{x}\\left( x, y \\right) \\cdot g_{y}\\left( x, y \\right) - f_{y}\\left( x, y \\right) \\cdot g_{x}\\left( x, y \\right)"},{"type":"expression","id":"10","color":"#000000","latex":"A\\left( x, y \\right) = x - \\frac{g_{y}\\left( x, y \\right) \\cdot f\\left( x, y \\right) - f_{y}\\left( x, y \\right) \\cdot g\\left( x, y \\right)}{d\\left( x, y \\right)}"},{"type":"expression","id":"11","color":"#000000","latex":"B\\left( x, y \\right) = y - \\frac{ - g_{x}\\left( x, y \\right) \\cdot f\\left( x, y \\right) + f_{x}\\left( x, y \\right) \\cdot g\\left( x, y \\right)}{d\\left( x, y \\right)}"},{"type":"expression","id":"12","color":"#000000","latex":"a_0 = 1"},{"type":"expression","id":"13","color":"#000000","latex":"b_0 = 1"},{"type":"expression","id":"14","color":"#000000","latex":"a\\left( 0 \\right) = a_0"},{"type":"expression","id":"15","color":"#000000","latex":"b\\left( 0 \\right) = b_0"},{"type":"expression","id":"16","color":"#000000","latex":"a\\left( i \\right) = A\\left( a\\left( i - 1 \\right), b\\left( i - 1 \\right) \\right)"},{"type":"expression","id":"17","color":"#000000","latex":"b\\left( i \\right) = B\\left( a\\left( i - 1 \\right), b\\left( i - 1 \\right) \\right)"},{"type":"expression","id":"18","color":"#000000","latex":"I = [0,...,10]"},{"type":"expression","id":"19","color":"#000000","latex":"(a_0, b_0)"},{"type":"expression","id":"20","color":"#000000","lines":true,"latex":"(a\\left( I \\right), b\\left( I \\right))"},{"type":"image","id":"21","image_url":"https://raw.githubusercontent.com/hyrodium/Visualize2dimNewtonMethod/b3fcb1f935439d671e3ddb3eb3b19fd261f6b067/example1a.png","hidden":true,"name":"regions","width":"20","height":"20"}]},"includeFunctionParametersInRandomSeed":true,"doNotMigrateMovablePointStyle":true});
         })();
     </script>
-</article><nav class="docs-footer"><a class="docs-footer-prevpage" href="../api/">« API</a><div class="flexbox-break"></div><p class="footer-message">Powered by <a href="https://github.com/JuliaDocs/Documenter.jl">Documenter.jl</a> and the <a href="https://julialang.org/">Julia Programming Language</a>.</p></nav></div><div class="modal" id="documenter-settings"><div class="modal-background"></div><div class="modal-card"><header class="modal-card-head"><p class="modal-card-title">Settings</p><button class="delete"></button></header><section class="modal-card-body"><p><label class="label">Theme</label><div class="select"><select id="documenter-themepicker"><option value="auto">Automatic (OS)</option><option value="documenter-light">documenter-light</option><option value="documenter-dark">documenter-dark</option><option value="catppuccin-latte">catppuccin-latte</option><option value="catppuccin-frappe">catppuccin-frappe</option><option value="catppuccin-macchiato">catppuccin-macchiato</option><option value="catppuccin-mocha">catppuccin-mocha</option></select></div></p><hr/><p>This document was generated with <a href="https://github.com/JuliaDocs/Documenter.jl">Documenter.jl</a> version 1.16.1 on <span class="colophon-date" title="Wednesday 10 December 2025 07:45">Wednesday 10 December 2025</span>. Using Julia version 1.12.2.</p></section><footer class="modal-card-foot"></footer></div></div></div></body></html>
+</article><nav class="docs-footer"><a class="docs-footer-prevpage" href="../api/">« API</a><div class="flexbox-break"></div><p class="footer-message">Powered by <a href="https://github.com/JuliaDocs/Documenter.jl">Documenter.jl</a> and the <a href="https://julialang.org/">Julia Programming Language</a>.</p></nav></div><div class="modal" id="documenter-settings"><div class="modal-background"></div><div class="modal-card"><header class="modal-card-head"><p class="modal-card-title">Settings</p><button class="delete"></button></header><section class="modal-card-body"><p><label class="label">Theme</label><div class="select"><select id="documenter-themepicker"><option value="auto">Automatic (OS)</option><option value="documenter-light">documenter-light</option><option value="documenter-dark">documenter-dark</option><option value="catppuccin-latte">catppuccin-latte</option><option value="catppuccin-frappe">catppuccin-frappe</option><option value="catppuccin-macchiato">catppuccin-macchiato</option><option value="catppuccin-mocha">catppuccin-mocha</option></select></div></p><hr/><p>This document was generated with <a href="https://github.com/JuliaDocs/Documenter.jl">Documenter.jl</a> version 1.16.1 on <span class="colophon-date" title="Wednesday 10 December 2025 08:19">Wednesday 10 December 2025</span>. Using Julia version 1.12.2.</p></section><footer class="modal-card-foot"></footer></div></div></div></body></html>

diff --git a/previews/PR42/search_index.js b/previews/PR42/search_index.js
@@ -1,3 +1,3 @@
 var documenterSearchIndex = {"docs":
-[{"location":"api/#API","page":"API","title":"API","text":"","category":"section"},{"location":"examples/#Examples","page":"Examples","title":"Examples","text":"","category":"section"},{"location":"examples/#Basic-function-definitions","page":"Examples","title":"Basic function definitions","text":"using Desmos, JSON, Colors\nstate = @desmos begin\n    @text \"Trigonometric functions\"\n    @expression cos(x) color = $(RGB(1,0,0))\n    @expression sin(x) color = $RGB(0,0,1)\n    tan(x)\n    @expression cot(x) hidden = true\n    @expression (cosh(t), sinh(t)) parametric_domain = -2..3\nend","category":"section"},{"location":"examples/#Variable-definitions","page":"Examples","title":"Variable definitions","text":"using Desmos, JSON\nb = 3\nstate = @desmos begin\n    a = 4\n    @expression b = 5 slider = 2..6\n    @expression c = 5 slider = 1:8\n    @expression d = 7\n    $(2+2)\n    sin($(2b)*a-cx)\nend","category":"section"},{"location":"examples/#Newton's-method","page":"Examples","title":"Newton's method","text":"This example may not work correctly in Firefox. Please try running code with julia-vscode or desmos-text-io if you encounter any problems.\n\nusing Desmos, JSON\nimage_url = \"https://raw.githubusercontent.com/hyrodium/Visualize2dimNewtonMethod/b3fcb1f935439d671e3ddb3eb3b19fd261f6b067/example1a.png\"\nstate = @desmos begin\n    f(x,y) = x^2+y^2-3.9-x/2\n    g(x,y) = x^2-y^2-2\n    @expression 0 = f(x,y) color = Gray(0.3)\n    @expression 0 = g(x,y) color = Gray(0.6)\n    f_x(x,y) = (d/dx)(f(x,y))\n    f_y(x,y) = (d/dy)(f(x,y))\n    g_x(x,y) = (d/dx)(g(x,y))\n    g_y(x,y) = (d/dy)(g(x,y))\n    d(x,y) = f_x(x,y)*g_y(x,y)-f_y(x,y)*g_x(x,y)\n    A(x,y) = x-(g_y(x,y)*f(x,y)-f_y(x,y)*g(x,y))/d(x,y)\n    B(x,y) = y-(-g_x(x,y)*f(x,y)+f_x(x,y)*g(x,y))/d(x,y)\n    a₀ = 1\n    b₀ = 1\n    a(0) = a₀\n    b(0) = b₀\n    a(i) = A(a(i-1),b(i-1))\n    b(i) = B(a(i-1),b(i-1))\n    @expression L\"I = [0,...,10]\"\n    (a₀,b₀)\n    @expression (a(I),b(I)) lines = true\n    @image image_url = $image_url width = 20 height = 20 name = \"regions\" hidden = true\nend","category":"section"},{"location":"#Desmos.jl","page":"Home","title":"Desmos.jl","text":"Generate Desmos script (JSON) with Julia language.\n\n(Image: Stable) (Image: Dev) (Image: Build Status) (Image: codecov) (Image: Aqua QA)","category":"section"},{"location":"#First-example","page":"Home","title":"First example","text":"using Desmos, JSON\n\nstate = @desmos begin\n    @text \"Trigonometric functions\"\n    @expression cos(x) color=RGB(0, 0.5, 1)\n    tan(x)\n    @expression cot(x) lines=false\n    @expression (cosh(t), sinh(t)) parametric_domain=-2..3 color=\"#f0f\"\nend\n\n(Image: )","category":"section"},{"location":"#Desmos-Text-I/O","page":"Home","title":"Desmos Text I/O","text":"You can also use Desmos Text I/O extension to import/export the desmos-graph.\n\n(Image: )\n\nChrome Web Store\nFirefox ADD-ONS","category":"section"}]
+[{"location":"api/#API","page":"API","title":"API","text":"","category":"section"},{"location":"examples/#Examples","page":"Examples","title":"Examples","text":"","category":"section"},{"location":"examples/#Basic-function-definitions","page":"Examples","title":"Basic function definitions","text":"using Desmos, JSON, Colors\nstate = @desmos begin\n    @text \"Trigonometric functions\"\n    @expression cos(x) color = $(RGB(1,0,0))\n    @expression sin(x) color = $RGB(0,0,1)\n    tan(x)\n    @expression cot(x) hidden = true\n    @expression (cosh(t), sinh(t)) parametric_domain = -2..3\nend","category":"section"},{"location":"examples/#Variable-definitions","page":"Examples","title":"Variable definitions","text":"using Desmos, JSON\nb = 3\nstate = @desmos begin\n    a = 4\n    @expression b = 5 slider = 2..6\n    @expression c = 5 slider = 1:8\n    @expression d = 7\n    $(2+2)\n    sin($(2b)*a-cx)\nend","category":"section"},{"location":"examples/#Newton's-method","page":"Examples","title":"Newton's method","text":"This example may not work correctly in Firefox. Please try running code with julia-vscode or desmos-text-io if you encounter any problems.\n\nusing Desmos, JSON\nimage_url = \"https://raw.githubusercontent.com/hyrodium/Visualize2dimNewtonMethod/b3fcb1f935439d671e3ddb3eb3b19fd261f6b067/example1a.png\"\nstate = @desmos begin\n    f(x,y) = x^2+y^2-3.9-x/2\n    g(x,y) = x^2-y^2-2\n    @expression 0 = f(x,y) color = Gray(0.3)\n    @expression 0 = g(x,y) color = Gray(0.6)\n    f_x(x,y) = (d/dx)(f(x,y))\n    f_y(x,y) = (d/dy)(f(x,y))\n    g_x(x,y) = (d/dx)(g(x,y))\n    g_y(x,y) = (d/dy)(g(x,y))\n    d(x,y) = f_x(x,y)*g_y(x,y)-f_y(x,y)*g_x(x,y)\n    A(x,y) = x-(g_y(x,y)*f(x,y)-f_y(x,y)*g(x,y))/d(x,y)\n    B(x,y) = y-(-g_x(x,y)*f(x,y)+f_x(x,y)*g(x,y))/d(x,y)\n    a₀ = 1\n    b₀ = 1\n    a(0) = a₀\n    b(0) = b₀\n    a(i) = A(a(i-1),b(i-1))\n    b(i) = B(a(i-1),b(i-1))\n    @expression L\"I = [0,...,10]\"\n    (a₀,b₀)\n    @expression (a(I),b(I)) lines = true\n    @image image_url = $image_url width = 20 height = 20 name = \"regions\" hidden = true\nend","category":"section"},{"location":"#Desmos.jl","page":"Home","title":"Desmos.jl","text":"Generate Desmos script (JSON) with Julia language.\n\n(Image: Stable) (Image: Dev) (Image: Build Status) (Image: codecov) (Image: Aqua QA)","category":"section"},{"location":"#First-example","page":"Home","title":"First example","text":"using Desmos\n\nstate = @desmos begin\n    @text \"First example\"\n    @expression cos(x) color=RGB(0, 0.5, 1) color=\"#f0f\"\n    @expression (cosh(t), sinh(t)) parametric_domain=-2..3\nend\n\n(Image: )","category":"section"},{"location":"#Desmos-Text-I/O","page":"Home","title":"Desmos Text I/O","text":"You can also use Desmos Text I/O extension to import/export the desmos-graph.\n\n(Image: )\n\nChrome Web Store\nFirefox ADD-ONS","category":"section"}]
 }
